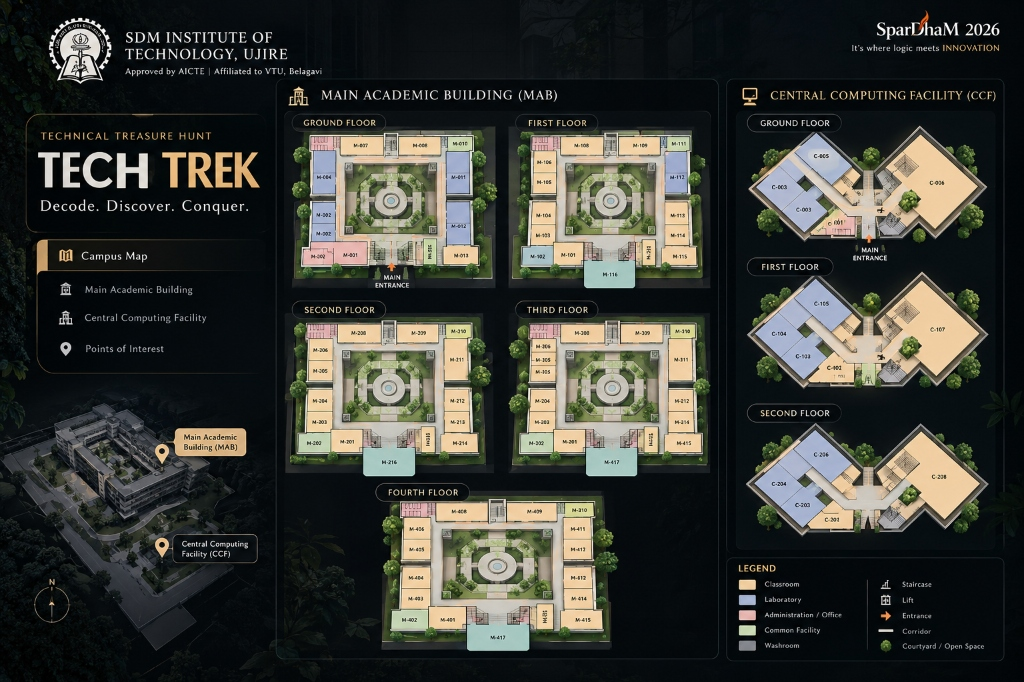
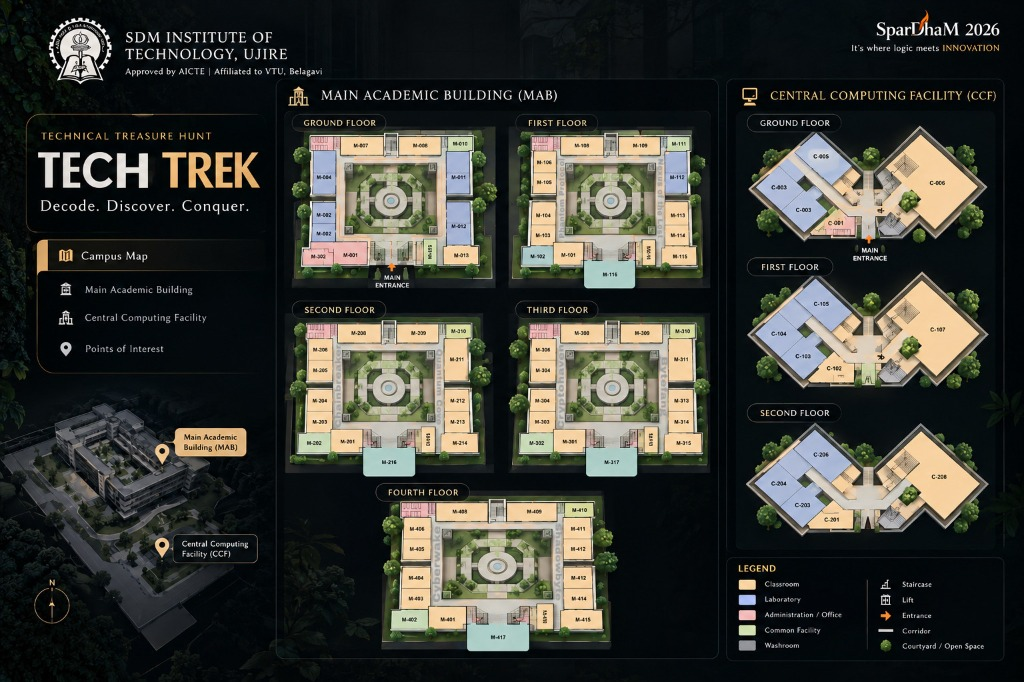
Update 2D campus map schematic with latest layout and increment asset cache-buster

diff --git a/src/components/LandingPage.jsx b/src/components/LandingPage.jsx
@@ -369,7 +369,7 @@ export default function LandingPage({ onNavigate3D }) {
               </p>
               <div className="map-image-container">
                 <img
-                  src="/images/sdmit_2d_map.jpg?v=2"
+                  src="/images/sdmit_2d_map.jpg?v=3"
                   alt="SDMIT Campus 2D Layout & Floor Map"
                   className="map-image"
                 />
@@ -378,7 +378,7 @@ export default function LandingPage({ onNavigate3D }) {
 
             <div className="modal-footer" style={{ display: 'flex', justifyContent: 'space-between', alignItems: 'center', flexWrap: 'wrap', gap: '8px' }}>
               <a
-                href="/images/sdmit_2d_map.jpg?v=2"
+                href="/images/sdmit_2d_map.jpg?v=3"
                 target="_blank"
                 rel="noreferrer"
                 className="btn-modal-link"

diff --git a/src/App.jsx b/src/App.jsx
@@ -96,7 +96,7 @@ export default function App() {
               </p>
               <div className="map-image-container">
                 <img
-                  src="/images/sdmit_2d_map.jpg?v=2"
+                  src="/images/sdmit_2d_map.jpg?v=3"
                   alt="SDMIT Campus 2D Layout & Floor Map"
                   className="map-image"
                 />
@@ -105,7 +105,7 @@ export default function App() {
 
             <div className="modal-footer" style={{ display: 'flex', justifyContent: 'space-between', alignItems: 'center', flexWrap: 'wrap', gap: '8px' }}>
               <a
-                href="/images/sdmit_2d_map.jpg?v=2"
+                href="/images/sdmit_2d_map.jpg?v=3"
                 target="_blank"
                 rel="noreferrer"
                 className="btn-modal-link"
